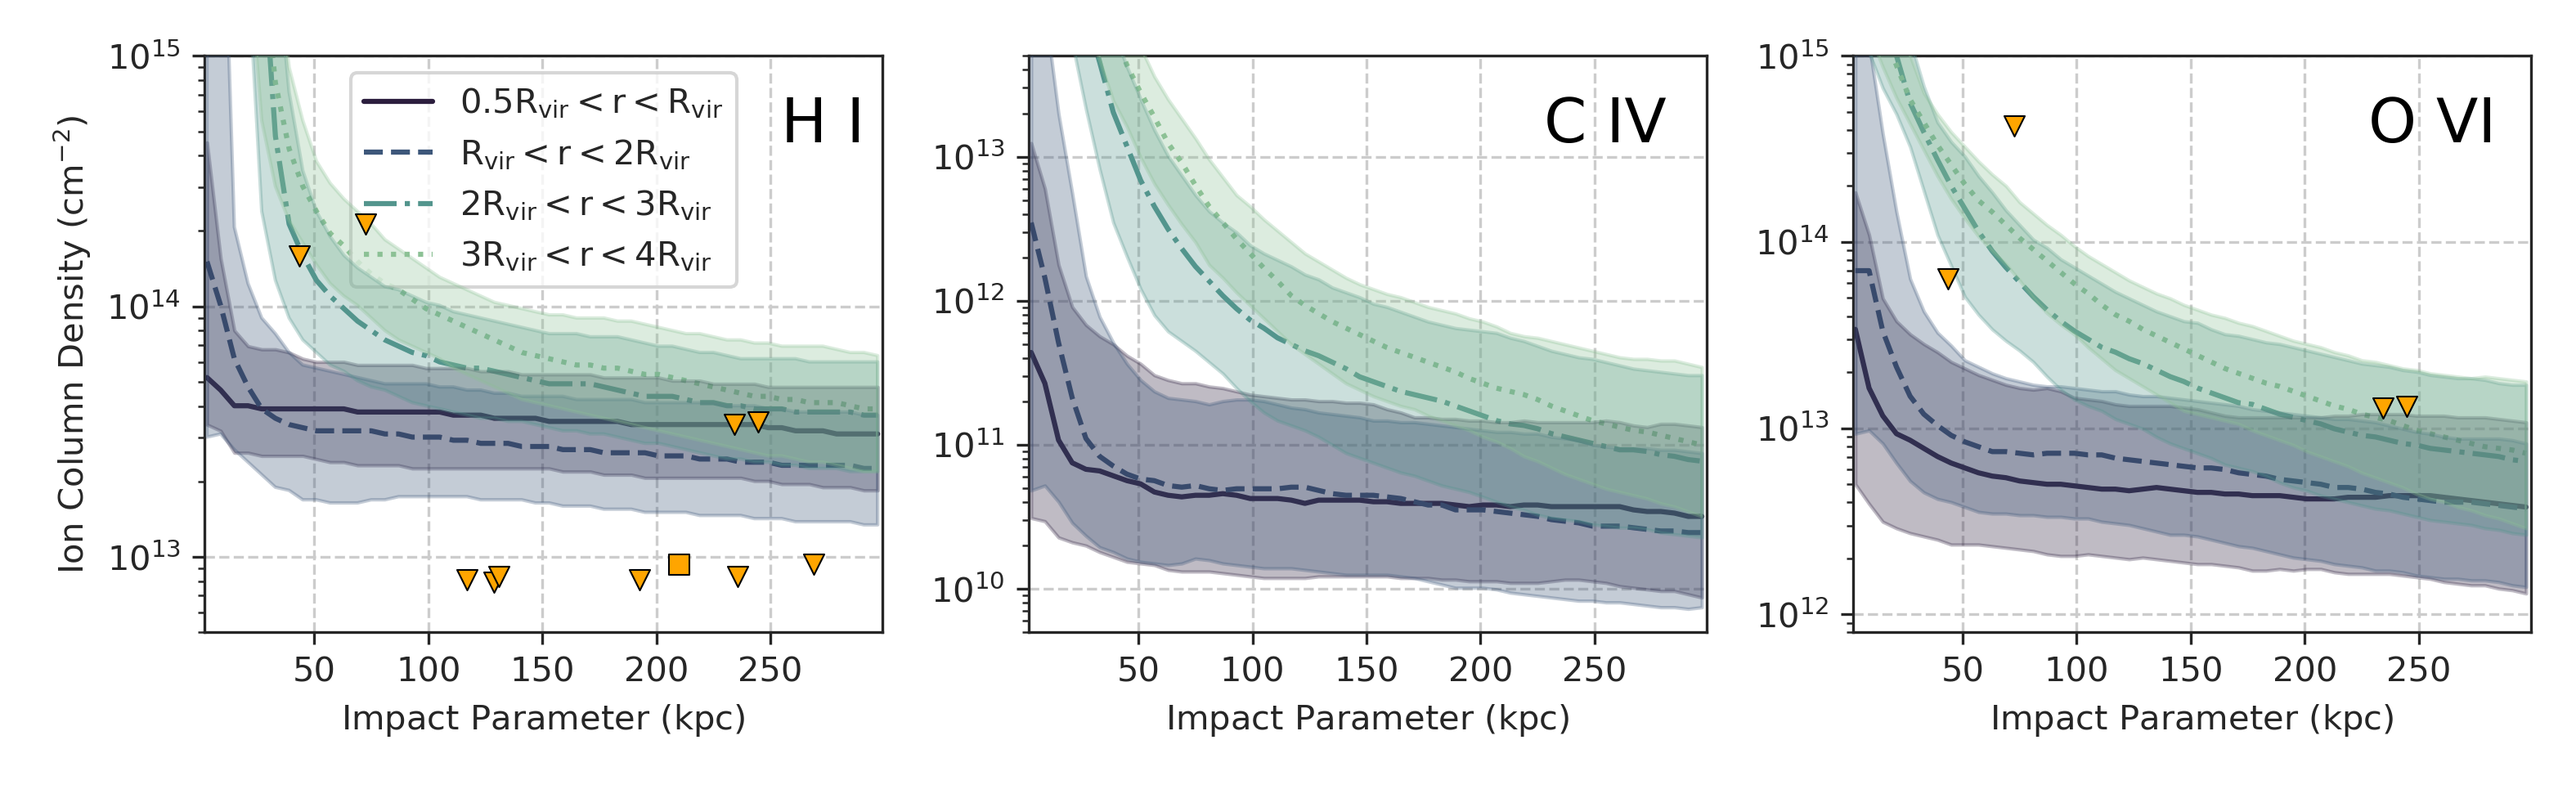
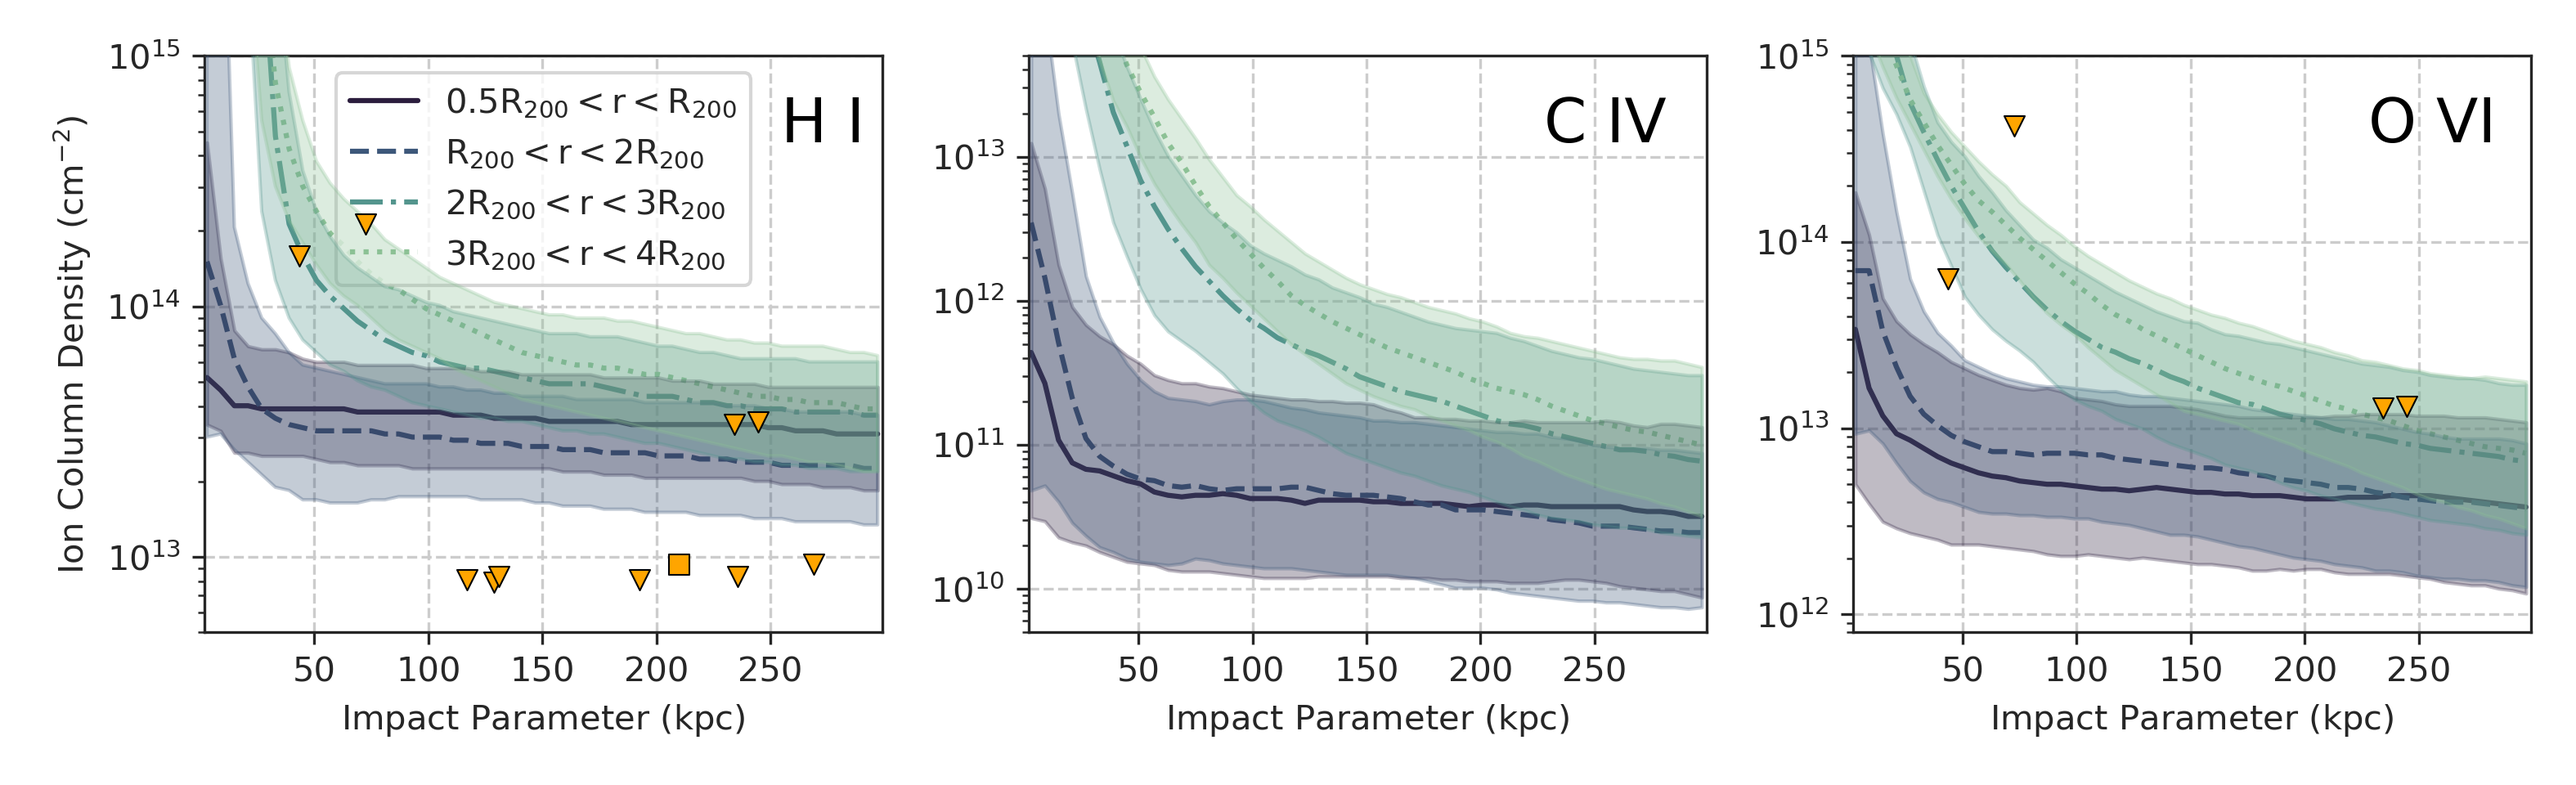
last one? who knows

diff --git a/plot_multipanel_halo_ion.py b/plot_multipanel_halo_ion.py
@@ -75,15 +75,15 @@ def multipanel_ion_plot(sim, output, ion_list, plot_type, bin_type, do_colormesh
 #                       '$ 0.5 \mathrm{R}_{\mathrm{vir}} < \mathrm{r} < \mathrm{R}_{\mathrm{vir}}$', \
 #                       '$ \mathrm{R}_{\mathrm{vir}} < \mathrm{r} < 2 \mathrm{R}_{\mathrm{vir}}$' ,\
 #                       '$ 2 \mathrm{R}_{\mathrm{vir}} < \mathrm{r} < 3 \mathrm{R}_{\mathrm{vir}}$']
-#        plot_labels = ['$\mathrm{r} < 0.5 \mathrm{R}_{200}$', '$ 0.5 \mathrm{R}_{200} < \mathrm{r} < \mathrm{R}_{200}$',\
- #                      '$ \mathrm{R}_{200} < \mathrm{r} < 2 \mathrm{R}_{200}$',\
- #                      '$ 2 \mathrm{R}_{200} < \mathrm{r} < 3 \mathrm{R}_{200}$', \
- #                      '$ 3 \mathrm{R}_{200} < \mathrm{r} < 4 \mathrm{R}_{200}$']               
+        plot_labels = ['$ 0.5 \mathrm{R}_{200} < \mathrm{r} < \mathrm{R}_{200}$',\
+                       '$ \mathrm{R}_{200} < \mathrm{r} < 2 \mathrm{R}_{200}$',\
+                       '$ 2 \mathrm{R}_{200} < \mathrm{r} < 3 \mathrm{R}_{200}$', \
+                       '$ 3 \mathrm{R}_{200} < \mathrm{r} < 4 \mathrm{R}_{200}$']               
 
-        plot_labels = ['$ 0.5 \mathrm{R}_{\mathrm{vir}} < \mathrm{r} < \mathrm{R}_{\mathrm{vir}}$',\
-                       '$\mathrm{R}_{\mathrm{vir}} < \mathrm{r} < 2\mathrm{R}_{\mathrm{vir}}$',\
-                       '$ 2\mathrm{R}_{\mathrm{vir}} < \mathrm{r} < 3 \mathrm{R}_{\mathrm{vir}}$', \
-                       '$ 3 \mathrm{R}_{\mathrm{vir}} < \mathrm{r} < 4 \mathrm{R}_{\mathrm{vir}}$']
+#        plot_labels = ['$ 0.5 \mathrm{R}_{\mathrm{vir}} < \mathrm{r} < \mathrm{R}_{\mathrm{vir}}$',\
+#                       '$\mathrm{R}_{\mathrm{vir}} < \mathrm{r} < 2\mathrm{R}_{\mathrm{vir}}$',\
+#                       '$ 2\mathrm{R}_{\mathrm{vir}} < \mathrm{r} < 3 \mathrm{R}_{\mathrm{vir}}$', \
+#                       '$ 3 \mathrm{R}_{\mathrm{vir}} < \mathrm{r} < 4 \mathrm{R}_{\mathrm{vir}}$']
 
 
         linestyles = ['solid', 'dashed', 'dashdot', 'dotted']
